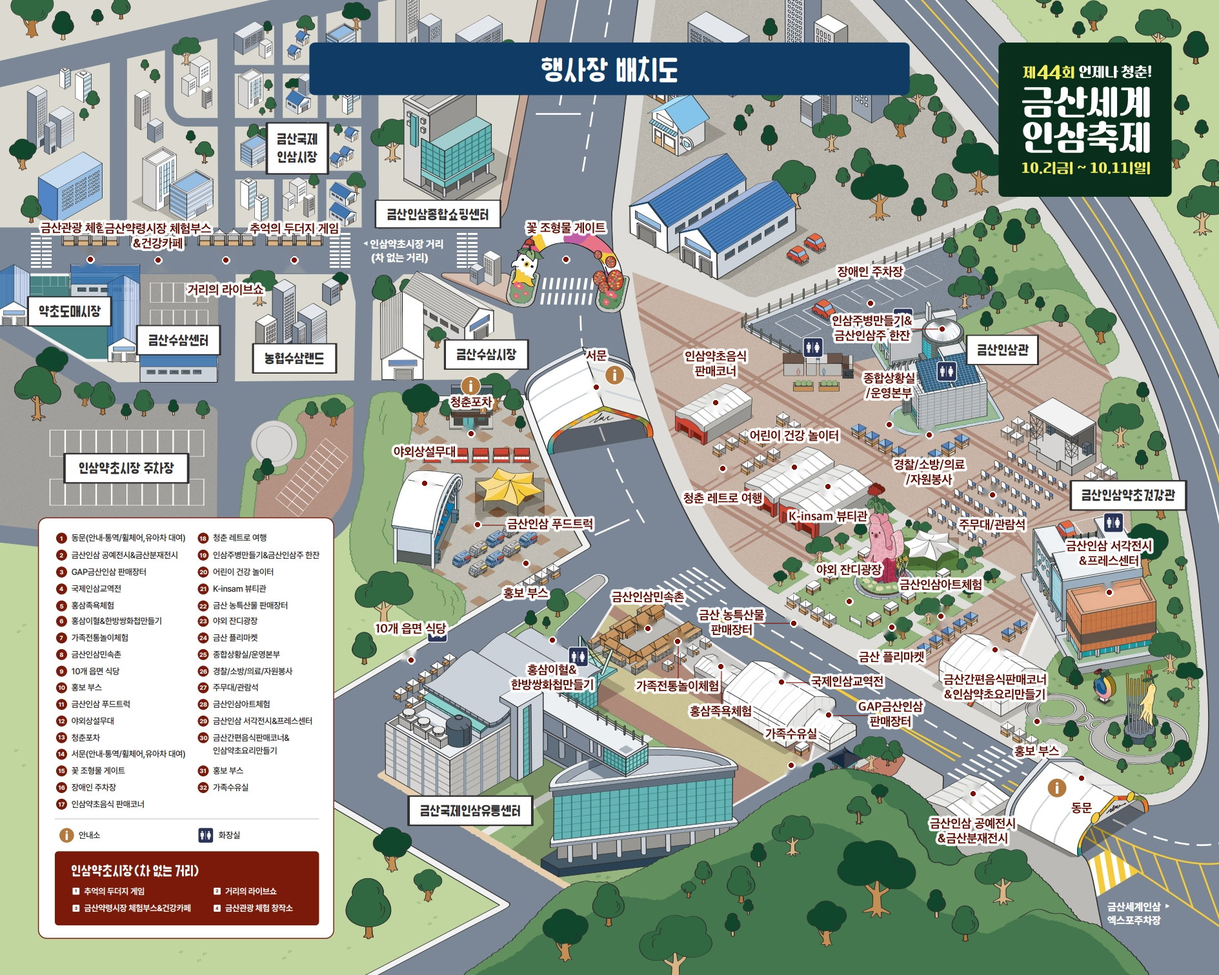
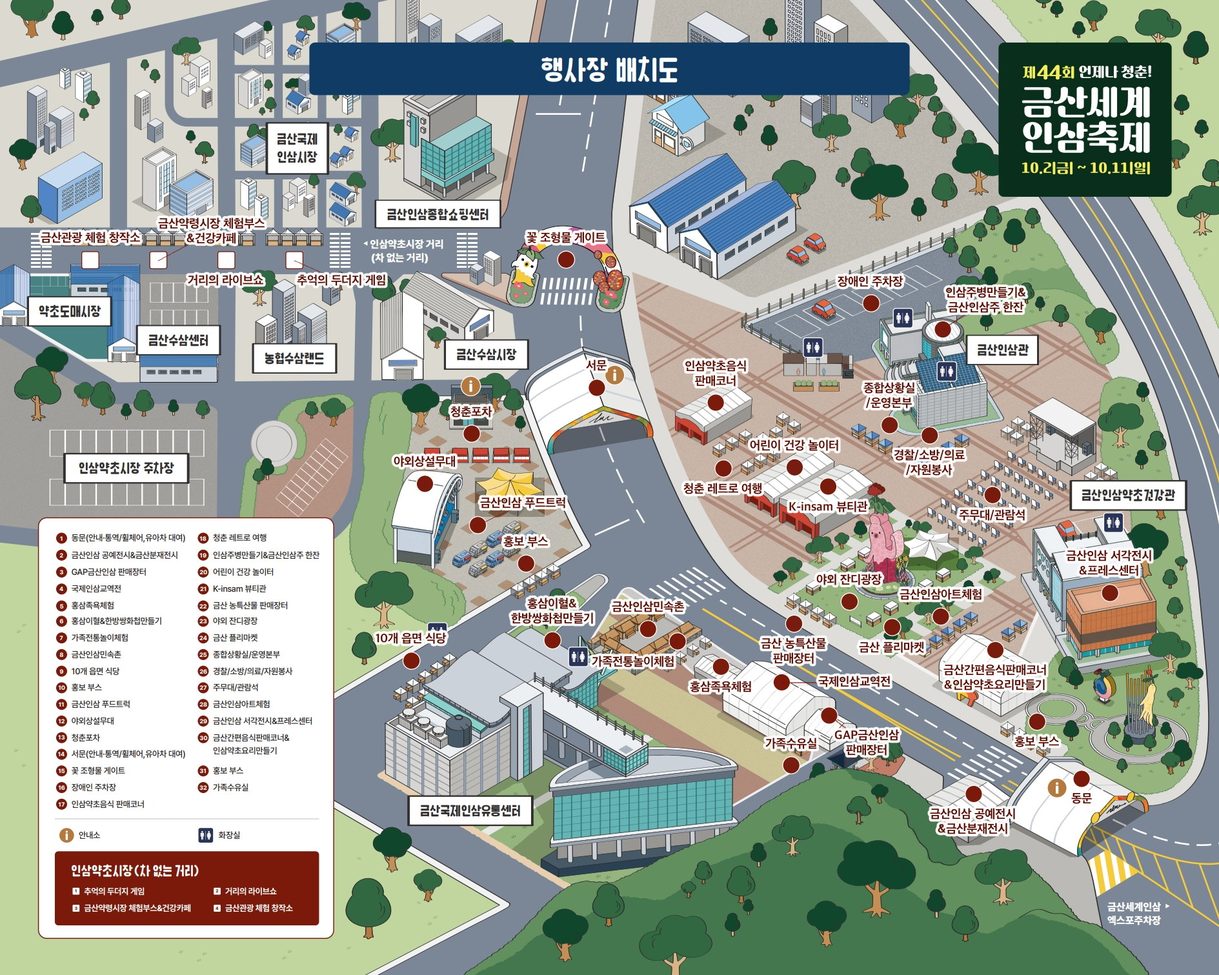
금산 라벨 약도 — 배지를 파내지 말고 숫자만 덮도록, 라벨 겹침 해소
배지를 통째로 지우고 밑그림을 복원하려 했더니(인페인트·최근접복사) 자리마다
얼룩이나 별 모양 번짐이 남았다. 일러스트라 없는 그림을 만들어낼 수가 없다.
배지는 그대로 두고 '안의 숫자만' 배지색으로 덮으니 티가 전혀 안 난다 —
원래 약도의 표기 언어를 그대로 쓰는 셈이고, 빈 배지가 곧 위치 표식이 된다.
인도 경계선·지붕 곡선이 배지 옆을 지나던 자리도 원본 그대로 남는다.

라벨 배치: 글자 폭을 textlength(후광 제외)로 재서 겹침이 생겼다. 후광 포함
실제 bbox로 재고, 후보 자리를 4겹으로 늘린 뒤 겹침 면적을 비용으로 최소화해
고르게 했다. 36개 전부 겹침 0 — 약도가 원래 갖고 있던 건물 라벨과 다른 항목의
배지도 침범하지 않는다.

diff --git a/sw.js b/sw.js
@@ -1,7 +1,7 @@
 // 미니맵 서비스워커 — 오프라인/약신호 대비 (stale-while-revalidate)
 // 핵심: GPS는 위성이라 인터넷 불필요 → 약도·코드만 캐시돼 있으면 행사장 통신 마비에도 전부 동작.
 // 구조 변경 시 이 버전을 올리면(activate에서) 옛 캐시가 자동 폐기됨 → 기존 사용자 화면 고착 방지
-const CACHE = 'festmap-v72';
+const CACHE = 'festmap-v73';
 const CORE = [   // 앱 셸 (Leaflet은 자체 호스팅 → 외부 CDN 의존 없음)
   './', './index.html', './e.html', './apply.html', './apply-good.png', './apply-bad.png', './report.html', './qr.html', './heatmap.html', './privacy.html',
   './analytics.js', './firebase-config.js',
